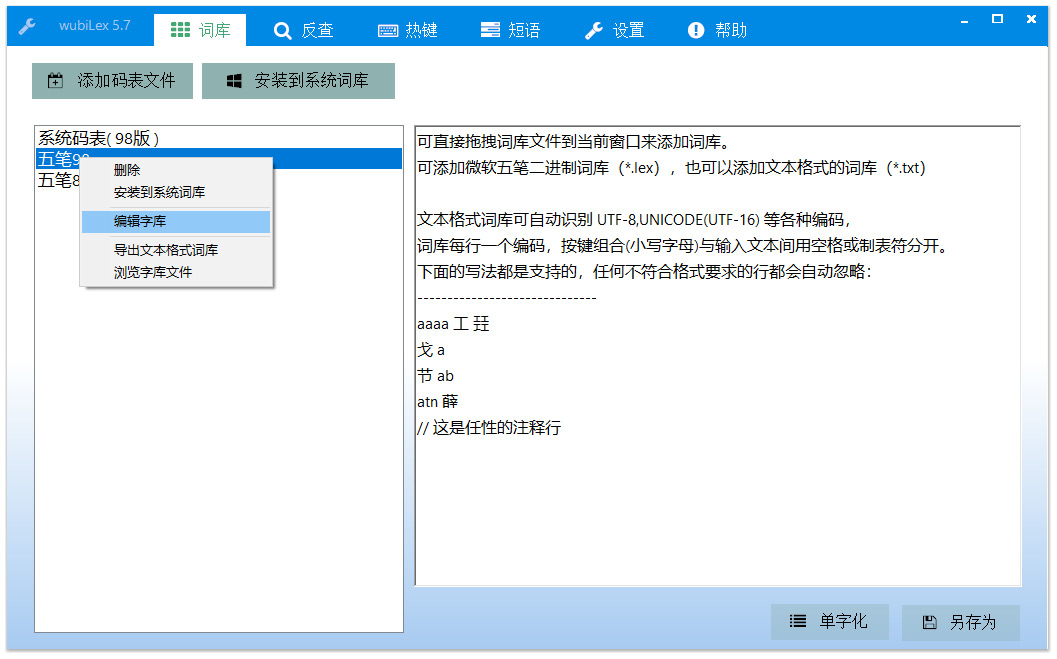
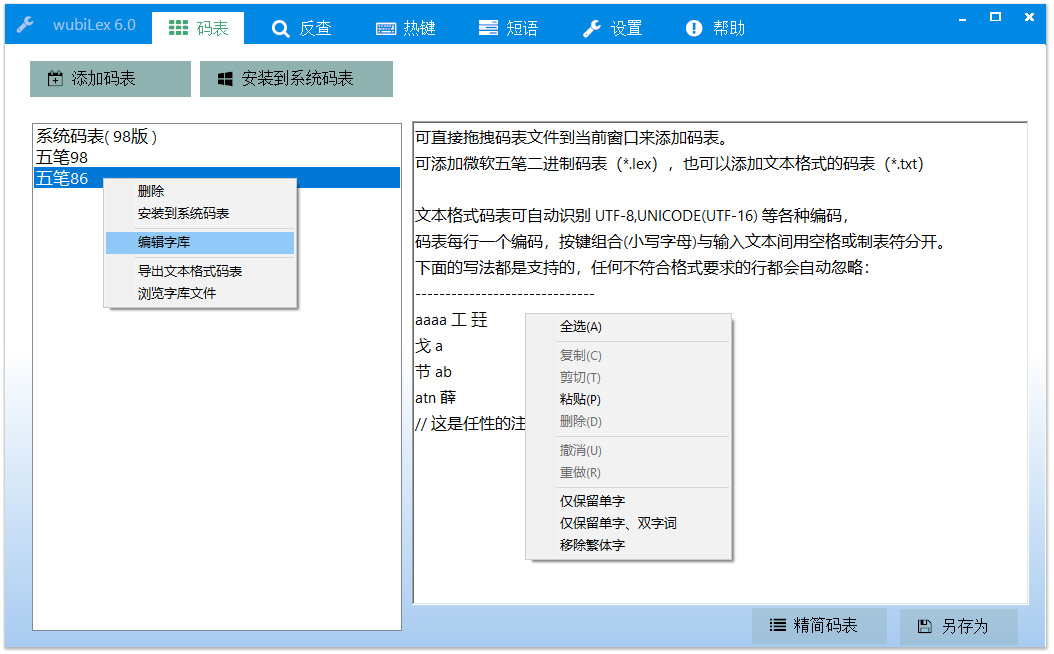
增加更多精简码表功能（仅保留单字、双字词、以及移除繁体字等功能）

diff --git a/README.md b/README.md
@@ -1,7 +1,7 @@
 # wubiLex ( Win10 五笔助手 )
 Win10自带的微软五笔码表安装、管理工具。  
-支持导入、导出、安装二进制格式、文本格式的码表， 不需要重启操作系统就可以切换词库。   
-可在五笔86、五笔98词库间自由切换，可自动识别并显示系统码表是五笔96、98、还是新世纪。    
+支持导入、导出、安装二进制格式、文本格式的码表， 不需要重启操作系统就可以切换码表。   
+可在五笔86、五笔98码表间自由切换，可自动识别并显示系统码表是五笔96、98、还是新世纪。    
 支持字根反查，可显示五笔86、98版字根拆分图示（不仅支持单字，也可以支持词组）。  
 使用虚拟键盘实时演示字根如何拆分到具体按键。
 支持直接编辑五笔短语词库（实时生效，不需要点击很多步骤到设置面板去导入）。
